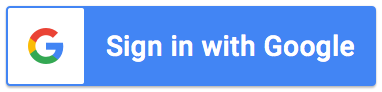
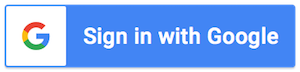
Adjust login button

diff --git a/src/css/signIn.scss b/src/css/signIn.scss
@@ -29,6 +29,7 @@
   align-items: center;
   color: $primary-font-color;
   font-size: 15vw;
+  margin-bottom: 3vh;
   text-align: center;
 }
 
@@ -50,11 +51,29 @@
 }
 
 #googleButton {
-  background-color: blue;
-  border:none;
-  color: white;
-  font-size: 3vh;
-  height: 5vh;
-  margin: 1vh;
-  width: 40vw;
+  background-image:url(/src/css/images/google-signin-normal-copy.png);
+  background-color: white;
+  background-position: center;
+  background-repeat: no-repeat;
+  border: none;
+  height: 15vh;
+  width: 100vw;
+}
+
+@media (min-width: 700px) {
+  .logoContainer {
+    background-image:url(/src/css/images/meeting.jpg);
+    background-repeat: no-repeat;
+    background-size: cover;
+    // background-position: center;
+  }
+  .signInContainer {
+    // display: none;
+  }
+
+  #googleButton {
+    background-image:url(/src/css/images/google-signin-normal.png);
+    height: 80px;
+    width: 50vw;
+  }
 }

diff --git a/src/SignIn.js b/src/SignIn.js
@@ -27,9 +27,9 @@ class SignIn extends Component {
           <h1 className="logoName">Remembr</h1>
         </section>
         <section className="signInContainer">
-          <h2 className="signIn">Sign In With:</h2>
+          <h2 className="signIn">Log In:</h2>
           <button id="googleButton" onClick={() => firebase.auth().signInWithPopup(provider)}>
-          Google</button>
+          </button>
         </section>
       </section>
     );

diff --git a/src/NewContact.js b/src/NewContact.js
@@ -148,7 +148,6 @@ class NewContact extends Component {
           <h2 className="phoneDescription description">Phone: </h2>
           <input
             className='phoneInput formInput'
-            type='number'
             placeholder='303-555-5555'
             onChange={this.handlePhoneChange}
           />
